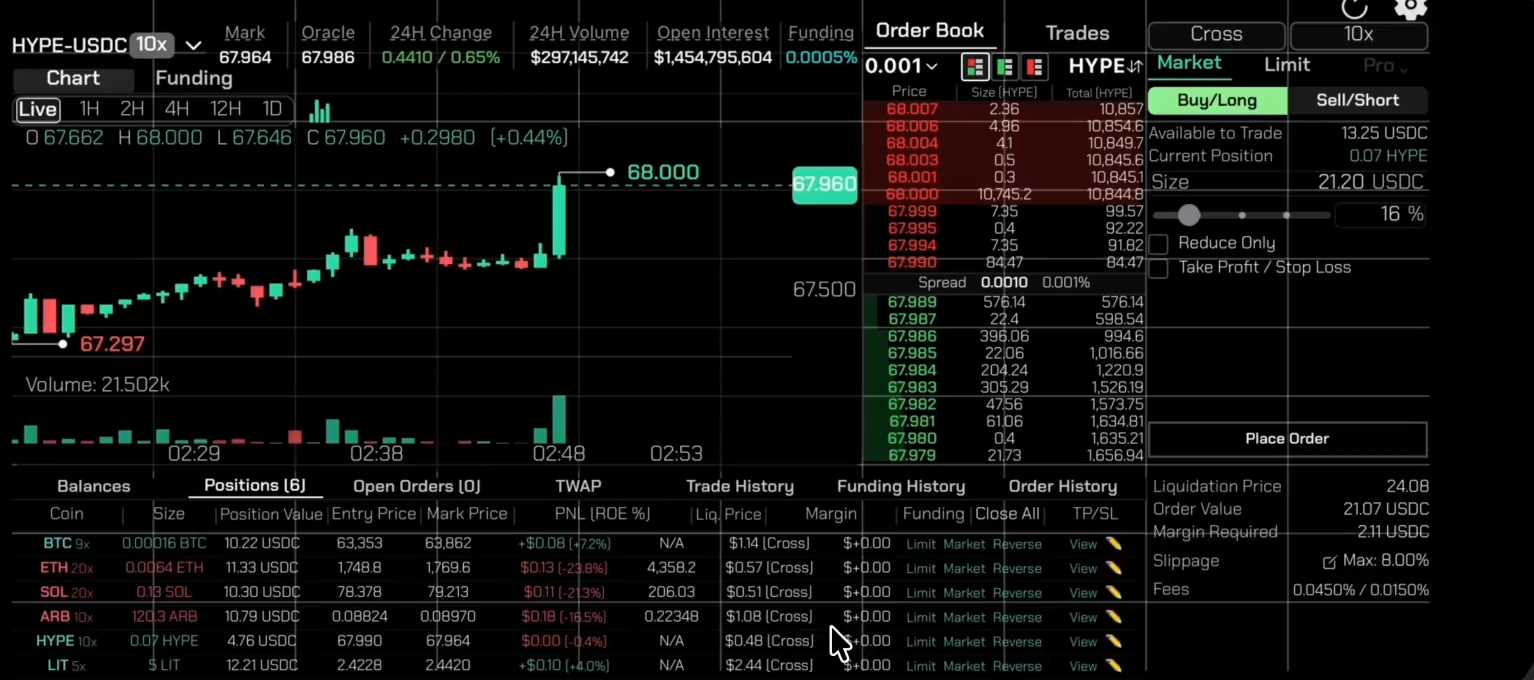
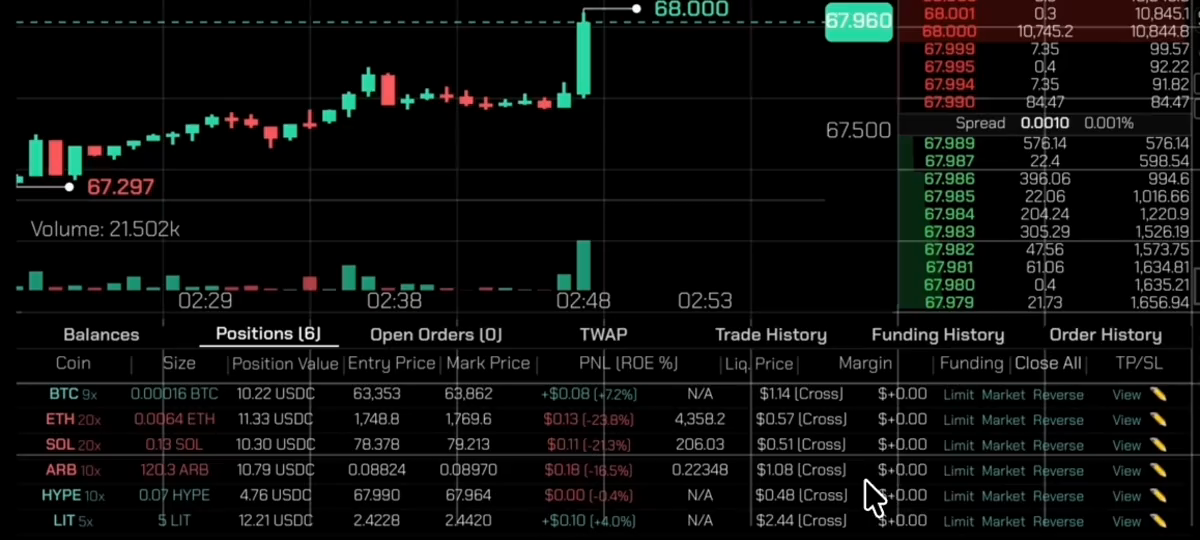
commented out the walkthrough video of riten zone

diff --git a/src/data/portfolio.js b/src/data/portfolio.js
@@ -81,10 +81,10 @@ export const ritenParts = [
       {
         video: '/portfolio/riten/positions-story.mp4',
         still: '/portfolio/riten/still-positions-story.png',
-        w: 1534,
-        h: 680,
+        w: 1200,
+        h: 540,
         wide: true,
-        caption: 'the table live, then one position reversed, through to the order going out',
+        caption: 'one take: the table live, then the camera follows a position into the reverse sheet and out the other side as the order goes',
       },
     ],
   },

diff --git a/src/pages/Portfolio.jsx b/src/pages/Portfolio.jsx
@@ -638,10 +638,12 @@ function RitenCase({ item }) {
 
           <RitenMacro />
 
+          {/* the full 114s walkthrough, parked for now: the loops above already tell it
           <div style={{ marginTop: '9rem' }}>
             <p style={{ ...ritenEyebrow, marginBottom: '2rem' }}>the walkthrough</p>
             <ShowcaseVideo src={item.mainVideo} poster={item.mainPoster} aspect={item.mainAspect} />
           </div>
+          */}
         </div>
       </div>
     </section>